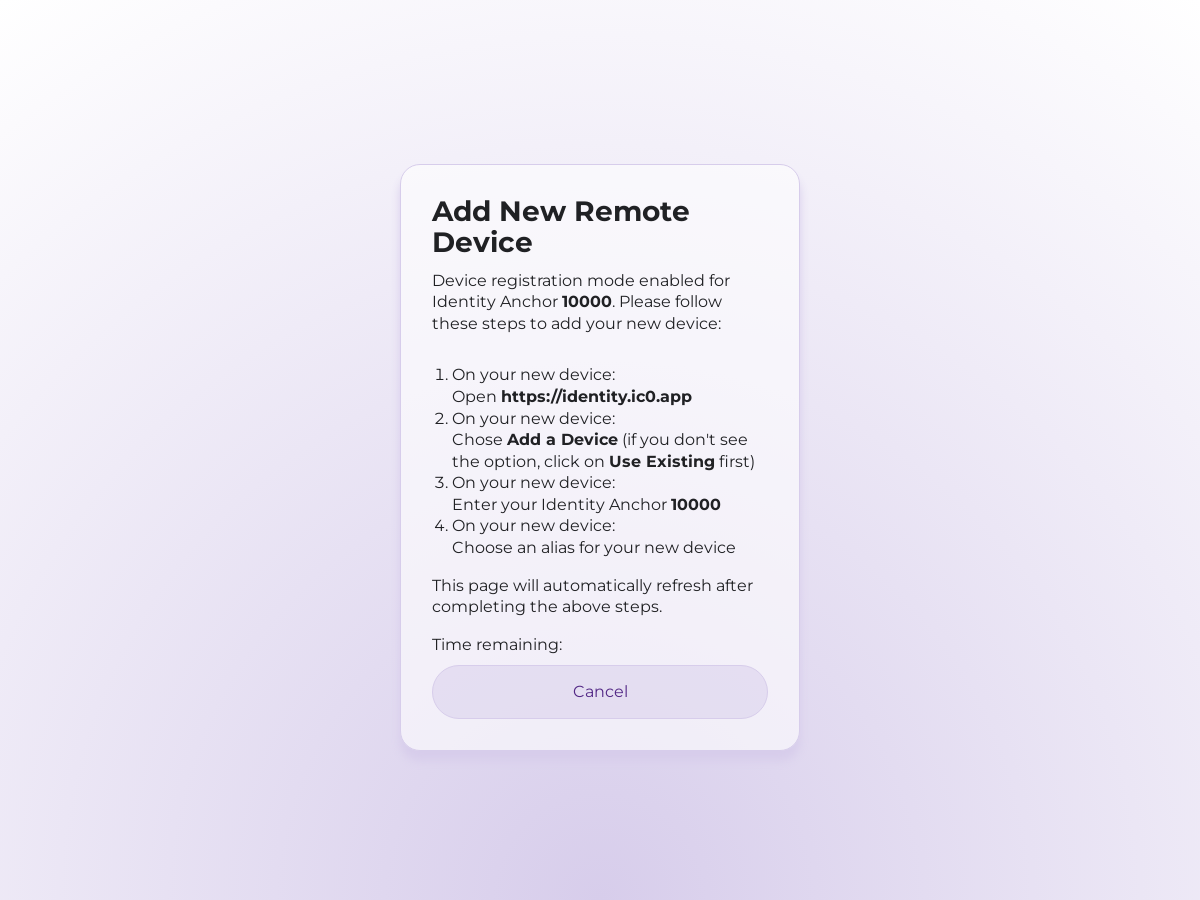
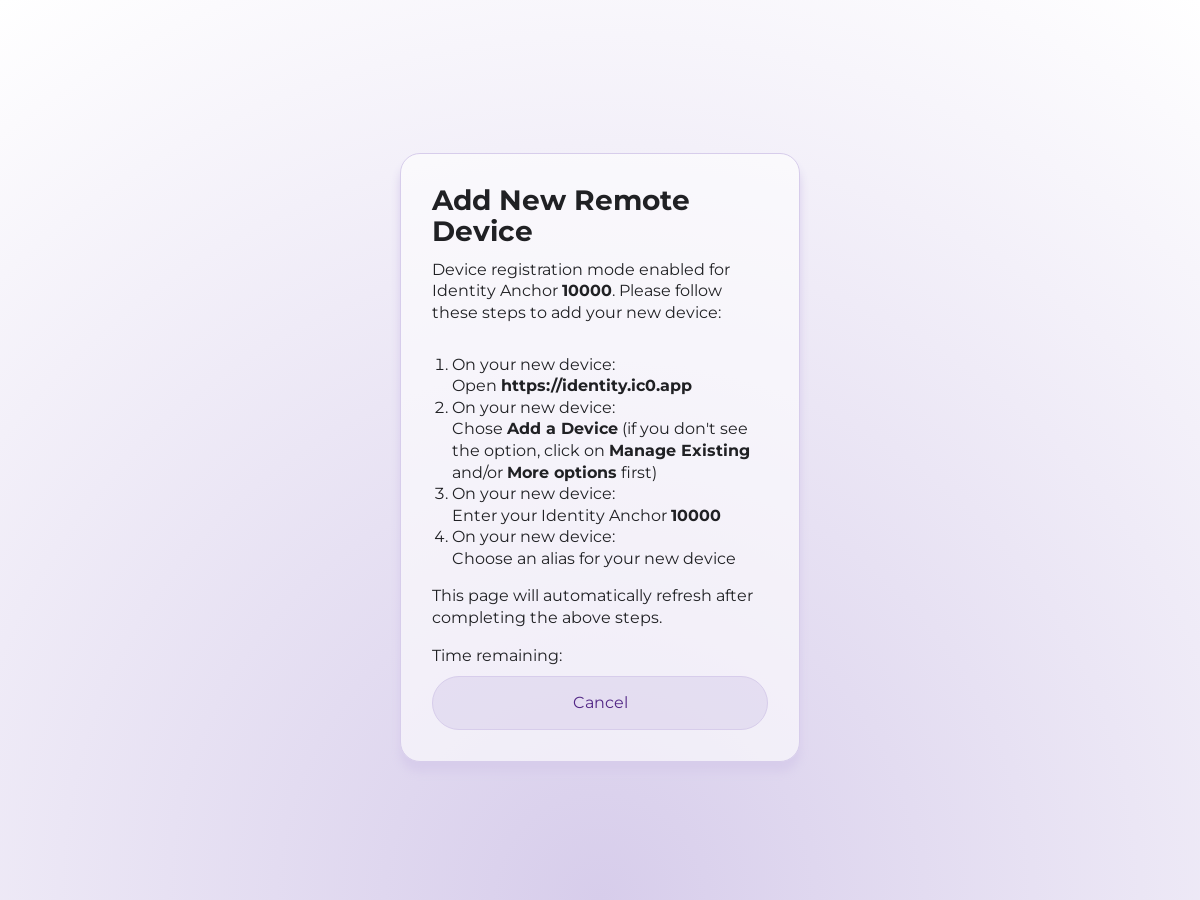
Update Add Device instructions (#1034)
* Update Add Device instructions

They were slightly out of date.

* 🤖 Selenium screenshots auto-update

Changed region(s): [[0.3392, 0.4044, 0.6475, 0.7467], [0.3392, 0.2178, 0.6167, 0.3733], [0.3392, 0.7467, 0.6783, 0.8711]]

diff --git a/src/frontend/src/flows/addDevice/manage/pollForTentativeDevice.ts b/src/frontend/src/flows/addDevice/manage/pollForTentativeDevice.ts
@@ -29,7 +29,8 @@ const pageContent = (userNumber: bigint) => html`
         On your <em>new</em> device:<br />
         Chose <strong class="t-strong">Add a Device</strong> (if you don't see
         the option, click on
-        <strong class="t-strong">Use Existing</strong> first)
+        <strong class="t-strong">Manage Existing</strong> and/or
+        <strong class="t-strong">More options</strong> first)
       </li>
       <li>
         On your <em>new</em> device:<br />
